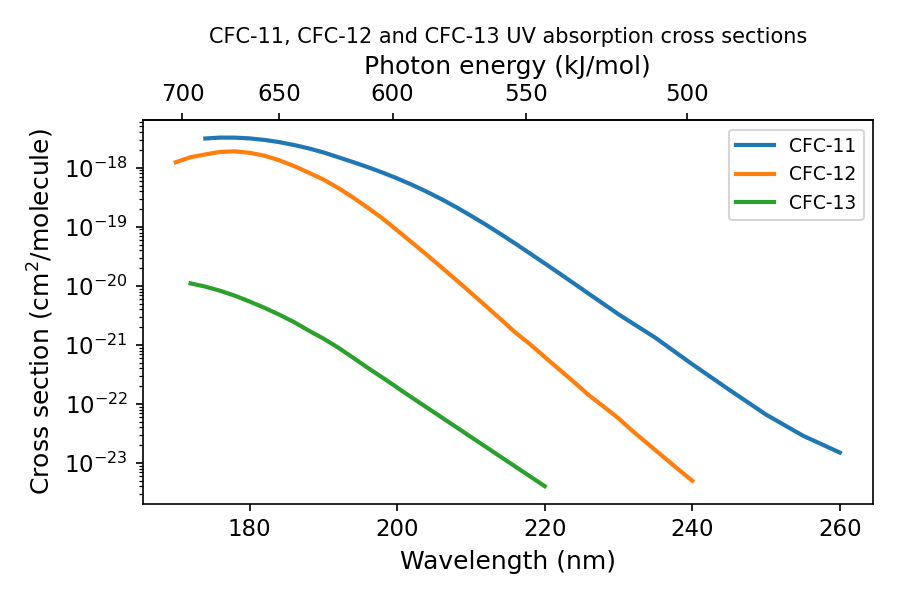
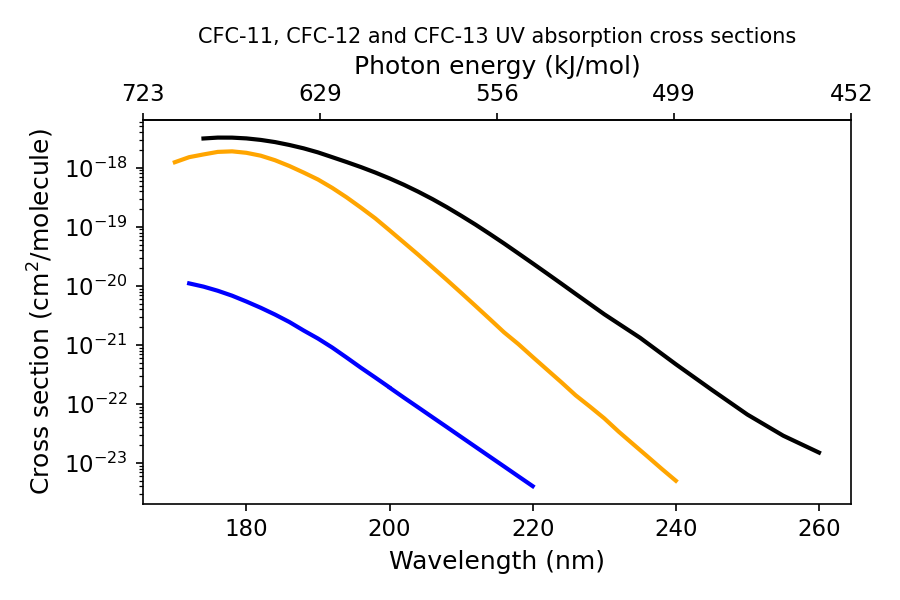
updating x-section plotting style

diff --git a/scripts/_plot_style.py b/scripts/_plot_style.py
@@ -9,7 +9,9 @@ FIGSIZE = (6, 4)  # inches (width, height) - fits ~A4 lecture notes
 LINEWIDTH = 2.0
 FONTSIZE = 12
 TITLE_FONTSIZE = 10
-LEGEND_FONTSIZE = 9
+
+# Colour per curve, keyed by how many species/curves share one plot.
+COLORS = ["black", "orange", "blue", "green", "red"]
 
 # E (kJ/mol) = N_A * h * c / wavelength, with wavelength in nm
 _PLANCK = 6.62607015e-34  # J s
@@ -32,11 +34,27 @@ def apply_style():
     plt.rcParams.update({"font.size": FONTSIZE})
 
 
-def add_energy_axis(ax):
+def add_energy_axis(ax, n_ticks=5):
+    """
+    Add a secondary top x-axis showing photon energy (kJ/mol).
+
+    Energy is a 1/wavelength function, so ticks placed at "nice" energy
+    values bunch together in pixel space at the short-wavelength end.
+    Instead, ticks are chosen evenly spaced in wavelength (i.e. evenly
+    spaced in pixels along the shared axis) and labelled with their
+    corresponding energy.
+    """
     secax = ax.secondary_xaxis(
         "top",
         functions=(wavelength_nm_to_energy_kJmol, energy_kJmol_to_wavelength_nm),
     )
     secax.set_xlabel("Photon energy (kJ/mol)", fontsize=FONTSIZE)
     secax.tick_params(labelsize=FONTSIZE - 1)
+
+    xmin, xmax = ax.get_xlim()
+    step = (xmax - xmin) / (n_ticks - 1)
+    wavelengths = [xmin + i * step for i in range(n_ticks)]
+    energies = [wavelength_nm_to_energy_kJmol(w) for w in wavelengths]
+    secax.set_xticks(energies)
+    secax.set_xticklabels([f"{e:.0f}" for e in energies])
     return secax

diff --git a/scripts/merge_BrONO2_ClONO2_mainz.py b/scripts/merge_BrONO2_ClONO2_mainz.py
@@ -15,7 +15,7 @@ import requests
 import pandas as pd
 import matplotlib.pyplot as plt
 
-from _plot_style import FIGSIZE, LINEWIDTH, FONTSIZE, TITLE_FONTSIZE, LEGEND_FONTSIZE, apply_style, add_energy_axis
+from _plot_style import FIGSIZE, LINEWIDTH, FONTSIZE, TITLE_FONTSIZE, COLORS, apply_style, add_energy_axis
 
 REPO_ROOT = Path(__file__).resolve().parent.parent
 DATA_DIR = REPO_ROOT / "data"
@@ -64,14 +64,13 @@ def main():
     # Plot
     apply_style()
     fig, ax = plt.subplots(figsize=FIGSIZE)
-    for species, df in species_data.items():
-        ax.plot(df.wavelength_nm, df.cross_section_cm2, label=species, lw=LINEWIDTH)
+    for color, (species, df) in zip(COLORS, species_data.items()):
+        ax.plot(df.wavelength_nm, df.cross_section_cm2, color=color, lw=LINEWIDTH)
     ax.set_yscale("log")
     ax.set_xlabel("Wavelength (nm)", fontsize=FONTSIZE)
     ax.set_ylabel("Cross section (cm$^2$/molecule)", fontsize=FONTSIZE)
     ax.set_title("BrONO$_2$ and ClONO$_2$ UV absorption cross sections, 298 K", fontsize=TITLE_FONTSIZE)
     ax.tick_params(labelsize=FONTSIZE - 1)
-    ax.legend(fontsize=LEGEND_FONTSIZE, loc="upper right")
     add_energy_axis(ax)
     fig.tight_layout()
     fig.savefig(FIGURES_DIR / "BrONO2_ClONO2_298K.png", dpi=150)

diff --git a/scripts/merge_CFC_mainz.py b/scripts/merge_CFC_mainz.py
@@ -16,7 +16,7 @@ import requests
 import pandas as pd
 import matplotlib.pyplot as plt
 
-from _plot_style import FIGSIZE, LINEWIDTH, FONTSIZE, TITLE_FONTSIZE, LEGEND_FONTSIZE, apply_style, add_energy_axis
+from _plot_style import FIGSIZE, LINEWIDTH, FONTSIZE, TITLE_FONTSIZE, COLORS, apply_style, add_energy_axis
 
 REPO_ROOT = Path(__file__).resolve().parent.parent
 DATA_DIR = REPO_ROOT / "data"
@@ -71,14 +71,13 @@ def main():
     # Plot
     apply_style()
     fig, ax = plt.subplots(figsize=FIGSIZE)
-    for species, df in species_data.items():
-        ax.plot(df.wavelength_nm, df.cross_section_cm2, label=species, lw=LINEWIDTH)
+    for color, (species, df) in zip(COLORS, species_data.items()):
+        ax.plot(df.wavelength_nm, df.cross_section_cm2, color=color, lw=LINEWIDTH)
     ax.set_yscale("log")
     ax.set_xlabel("Wavelength (nm)", fontsize=FONTSIZE)
     ax.set_ylabel("Cross section (cm$^2$/molecule)", fontsize=FONTSIZE)
     ax.set_title("CFC-11, CFC-12 and CFC-13 UV absorption cross sections", fontsize=TITLE_FONTSIZE)
     ax.tick_params(labelsize=FONTSIZE - 1)
-    ax.legend(fontsize=LEGEND_FONTSIZE, loc="upper right")
     add_energy_axis(ax)
     fig.tight_layout()
     fig.savefig(FIGURES_DIR / "CFC-11_12_13_298K.png", dpi=150)

diff --git a/scripts/merge_NO2_mainz.py b/scripts/merge_NO2_mainz.py
@@ -19,7 +19,7 @@ import requests
 import pandas as pd
 import matplotlib.pyplot as plt
 
-from _plot_style import FIGSIZE, LINEWIDTH, FONTSIZE, TITLE_FONTSIZE, LEGEND_FONTSIZE, apply_style, add_energy_axis
+from _plot_style import FIGSIZE, LINEWIDTH, FONTSIZE, TITLE_FONTSIZE, COLORS, apply_style, add_energy_axis
 
 REPO_ROOT = Path(__file__).resolve().parent.parent
 DATA_DIR = REPO_ROOT / "data"
@@ -79,14 +79,12 @@ def main():
     # Plot
     apply_style()
     fig, ax = plt.subplots(figsize=FIGSIZE)
-    for src, grp in clipped.groupby("source"):
-        ax.plot(grp.wavelength_nm, grp.cross_section_cm2, label=src, lw=LINEWIDTH)
+    ax.plot(clipped.wavelength_nm, clipped.cross_section_cm2, color=COLORS[0], lw=LINEWIDTH)
     ax.set_yscale("log")
     ax.set_xlabel("Wavelength (nm)", fontsize=FONTSIZE)
     ax.set_ylabel("Cross section (cm$^2$/molecule)", fontsize=FONTSIZE)
     ax.set_title("NO$_2$ UV/VIS absorption cross section, 240-662.5 nm, 294 K", fontsize=TITLE_FONTSIZE)
     ax.tick_params(labelsize=FONTSIZE - 1)
-    ax.legend(fontsize=LEGEND_FONTSIZE, loc="upper right")
     add_energy_axis(ax)
     fig.tight_layout()
     fig.savefig(FIGURES_DIR / "NO2_merged_240-662.5nm.png", dpi=150)

diff --git a/scripts/merge_N2O_mainz.py b/scripts/merge_N2O_mainz.py
@@ -15,7 +15,7 @@ import requests
 import pandas as pd
 import matplotlib.pyplot as plt
 
-from _plot_style import FIGSIZE, LINEWIDTH, FONTSIZE, TITLE_FONTSIZE, LEGEND_FONTSIZE, apply_style, add_energy_axis
+from _plot_style import FIGSIZE, LINEWIDTH, FONTSIZE, TITLE_FONTSIZE, COLORS, apply_style, add_energy_axis
 
 REPO_ROOT = Path(__file__).resolve().parent.parent
 DATA_DIR = REPO_ROOT / "data"
@@ -63,14 +63,12 @@ def main():
     # Plot
     apply_style()
     fig, ax = plt.subplots(figsize=FIGSIZE)
-    for src, grp in clipped.groupby("source"):
-        ax.plot(grp.wavelength_nm, grp.cross_section_cm2, label=src, lw=LINEWIDTH)
+    ax.plot(clipped.wavelength_nm, clipped.cross_section_cm2, color=COLORS[0], lw=LINEWIDTH)
     ax.set_yscale("log")
     ax.set_xlabel("Wavelength (nm)", fontsize=FONTSIZE)
     ax.set_ylabel("Cross section (cm$^2$/molecule)", fontsize=FONTSIZE)
     ax.set_title("N$_2$O UV absorption cross section, 100-212 nm, 298 K", fontsize=TITLE_FONTSIZE)
     ax.tick_params(labelsize=FONTSIZE - 1)
-    ax.legend(fontsize=LEGEND_FONTSIZE, loc="upper right")
     add_energy_axis(ax)
     fig.tight_layout()
     fig.savefig(FIGURES_DIR / "N2O_merged_100-212nm.png", dpi=150)

diff --git a/scripts/merge_HCHO_mainz.py b/scripts/merge_HCHO_mainz.py
@@ -15,7 +15,7 @@ import requests
 import pandas as pd
 import matplotlib.pyplot as plt
 
-from _plot_style import FIGSIZE, LINEWIDTH, FONTSIZE, TITLE_FONTSIZE, LEGEND_FONTSIZE, apply_style, add_energy_axis
+from _plot_style import FIGSIZE, LINEWIDTH, FONTSIZE, TITLE_FONTSIZE, COLORS, apply_style, add_energy_axis
 
 REPO_ROOT = Path(__file__).resolve().parent.parent
 DATA_DIR = REPO_ROOT / "data"
@@ -63,14 +63,12 @@ def main():
     # Plot
     apply_style()
     fig, ax = plt.subplots(figsize=FIGSIZE)
-    for src, grp in clipped.groupby("source"):
-        ax.plot(grp.wavelength_nm, grp.cross_section_cm2, label=src, lw=LINEWIDTH)
+    ax.plot(clipped.wavelength_nm, clipped.cross_section_cm2, color=COLORS[0], lw=LINEWIDTH)
     ax.set_yscale("log")
     ax.set_xlabel("Wavelength (nm)", fontsize=FONTSIZE)
     ax.set_ylabel("Cross section (cm$^2$/molecule)", fontsize=FONTSIZE)
     ax.set_title("HCHO UV absorption cross section, 226-375 nm, 298 K", fontsize=TITLE_FONTSIZE)
     ax.tick_params(labelsize=FONTSIZE - 1)
-    ax.legend(fontsize=LEGEND_FONTSIZE, loc="upper right")
     add_energy_axis(ax)
     fig.tight_layout()
     fig.savefig(FIGURES_DIR / "HCHO_merged_226-375nm.png", dpi=150)

diff --git a/scripts/merge_H2O2_mainz.py b/scripts/merge_H2O2_mainz.py
@@ -15,7 +15,7 @@ import requests
 import pandas as pd
 import matplotlib.pyplot as plt
 
-from _plot_style import FIGSIZE, LINEWIDTH, FONTSIZE, TITLE_FONTSIZE, LEGEND_FONTSIZE, apply_style, add_energy_axis
+from _plot_style import FIGSIZE, LINEWIDTH, FONTSIZE, TITLE_FONTSIZE, COLORS, apply_style, add_energy_axis
 
 REPO_ROOT = Path(__file__).resolve().parent.parent
 DATA_DIR = REPO_ROOT / "data"
@@ -63,14 +63,12 @@ def main():
     # Plot
     apply_style()
     fig, ax = plt.subplots(figsize=FIGSIZE)
-    for src, grp in clipped.groupby("source"):
-        ax.plot(grp.wavelength_nm, grp.cross_section_cm2, label=src, lw=LINEWIDTH)
+    ax.plot(clipped.wavelength_nm, clipped.cross_section_cm2, color=COLORS[0], lw=LINEWIDTH)
     ax.set_yscale("log")
     ax.set_xlabel("Wavelength (nm)", fontsize=FONTSIZE)
     ax.set_ylabel("Cross section (cm$^2$/molecule)", fontsize=FONTSIZE)
     ax.set_title("H$_2$O$_2$ UV absorption cross section, 190-350 nm", fontsize=TITLE_FONTSIZE)
     ax.tick_params(labelsize=FONTSIZE - 1)
-    ax.legend(fontsize=LEGEND_FONTSIZE, loc="upper right")
     add_energy_axis(ax)
     fig.tight_layout()
     fig.savefig(FIGURES_DIR / "H2O2_merged_190-350nm.png", dpi=150)

diff --git a/scripts/merge_O3_mainz.py b/scripts/merge_O3_mainz.py
@@ -15,7 +15,7 @@ import requests
 import pandas as pd
 import matplotlib.pyplot as plt
 
-from _plot_style import FIGSIZE, LINEWIDTH, FONTSIZE, TITLE_FONTSIZE, LEGEND_FONTSIZE, apply_style, add_energy_axis
+from _plot_style import FIGSIZE, LINEWIDTH, FONTSIZE, TITLE_FONTSIZE, COLORS, apply_style, add_energy_axis
 
 REPO_ROOT = Path(__file__).resolve().parent.parent
 DATA_DIR = REPO_ROOT / "data"
@@ -86,14 +86,12 @@ def main():
     # Plot
     apply_style()
     fig, ax = plt.subplots(figsize=FIGSIZE)
-    for src, grp in clipped.groupby("source"):
-        ax.plot(grp.wavelength_nm, grp.cross_section_cm2, label=src, lw=LINEWIDTH)
+    ax.plot(clipped.wavelength_nm, clipped.cross_section_cm2, color=COLORS[0], lw=LINEWIDTH)
     ax.set_yscale("log")
     ax.set_xlabel("Wavelength (nm)", fontsize=FONTSIZE)
     ax.set_ylabel("Cross section (cm$^2$/molecule)", fontsize=FONTSIZE)
     ax.set_title("O$_3$ UV/VIS absorption cross section, 100-1000 nm", fontsize=TITLE_FONTSIZE)
     ax.tick_params(labelsize=FONTSIZE - 1)
-    ax.legend(fontsize=LEGEND_FONTSIZE, loc="upper right")
     add_energy_axis(ax)
     fig.tight_layout()
     fig.savefig(FIGURES_DIR / "O3_merged_100-1000nm.png", dpi=150)

diff --git a/scripts/merge_o2_mainz.py b/scripts/merge_o2_mainz.py
@@ -15,7 +15,7 @@ import requests
 import pandas as pd
 import matplotlib.pyplot as plt
 
-from _plot_style import FIGSIZE, LINEWIDTH, FONTSIZE, TITLE_FONTSIZE, LEGEND_FONTSIZE, apply_style, add_energy_axis
+from _plot_style import FIGSIZE, LINEWIDTH, FONTSIZE, TITLE_FONTSIZE, COLORS, apply_style, add_energy_axis
 
 REPO_ROOT = Path(__file__).resolve().parent.parent
 DATA_DIR = REPO_ROOT / "data"
@@ -91,14 +91,12 @@ def main():
     # Plot
     apply_style()
     fig, ax = plt.subplots(figsize=FIGSIZE)
-    for src, grp in clipped.groupby("source"):
-        ax.plot(grp.wavelength_nm, grp.cross_section_cm2, label=src, lw=LINEWIDTH)
+    ax.plot(clipped.wavelength_nm, clipped.cross_section_cm2, color=COLORS[0], lw=LINEWIDTH)
     ax.set_yscale("log")
     ax.set_xlabel("Wavelength (nm)", fontsize=FONTSIZE)
     ax.set_ylabel("Cross section (cm$^2$/molecule)", fontsize=FONTSIZE)
     ax.set_title("O$_2$ UV absorption cross section, 50-250 nm", fontsize=TITLE_FONTSIZE)
     ax.tick_params(labelsize=FONTSIZE - 1)
-    ax.legend(fontsize=LEGEND_FONTSIZE, loc="upper right")
     add_energy_axis(ax)
     fig.tight_layout()
     fig.savefig(FIGURES_DIR / "O2_merged_50-250nm.png", dpi=150)
